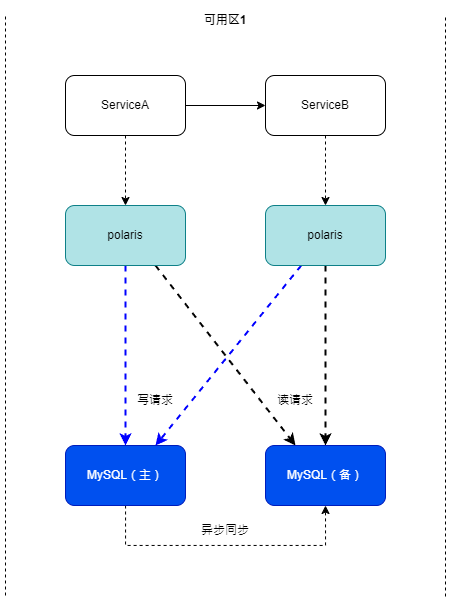
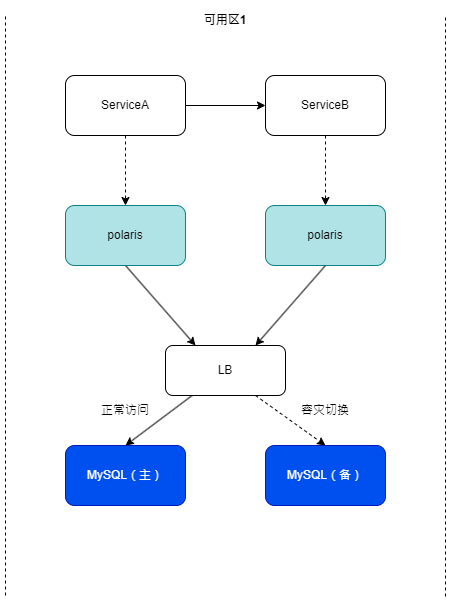
更新数据库主备集群的方案

diff --git a/docs/zh/doc/架构原理/北极星架构原理/高可用架构设计.md b/docs/zh/doc/架构原理/北极星架构原理/高可用架构设计.md
@@ -10,21 +10,22 @@
 ![](图片/高可用架构设计/单可用区设计.png)
 
 - polaris在单可用区内部署，一般至少部署2节点以保证可用性，客户端随机进行连接。
-- 数据库主备都在同一可用区，通过异步的方式进行主备之间数据同步。
-- polaris往主库中进行写，往备库进行读，保证读写分离
+- 数据库主备都在同一可用区，通过对外暴露访问IP，主实例发生故障时，可以在LB进行主备切换，对外IP不变。
+- polaris通过LB暴露的单个接入IP对MySQL进行访问。
 
 ### 跨可用区架构
 
 ![](图片/高可用架构设计/跨可用区设计.png)
 
 - polaris在多可用区内部署，每个可用区一般至少部署2节点以保证可用性，客户端就近随机挑选polaris进行连接。
-- 数据库主集群在其中一个可用区部署，集群内部通过双写强同步的机制保证数据一致性。备集群部署在其他可用区，主备集群之间通过异步的方式进行数据同步。
-- polaris往主集群写数据，往备集群进行读数据。
+- 数据库实例跨可用区部署，主备分别在不同的可用区，通过LB的跨可用区特性进行对外暴露一个接入IP。
+- polaris通过LB暴露的单个接入IP对MySQL进行访问。
 
 ### 跨地域架构
 
 ![](图片/高可用架构设计/跨地域设计.png)
 
 - polaris在多地域多可用区内部署，每个可用区一般至少部署2节点以保证可用性，客户端就近随机挑选polaris进行连接。
-- 数据库主集群在其中一个可用区部署，集群内部通过双写强同步的机制保证数据一致性。备集群部署在其他可用区，主备集群之间通过异步的方式进行数据同步。
-- polaris往主集群写数据，就近往备集群进行读数据。
+- 数据库分为主集群和只读集群，主集群跨可用区部署，只读集群部署在与主集群不同的地域，主集群通过异步的方式往只读集群同步数据。
+- 主集群和只读集群分别对外暴露LB的接入IP，polaris正常情况下只会通过主集群的接入IP访问。
+- 在容灾的场景下，主地域集群出现问题，需要将RO集群升级成主集群，同时通过域名切换等方式，将polaris的接入IP切换成RO集群的接入IP。
